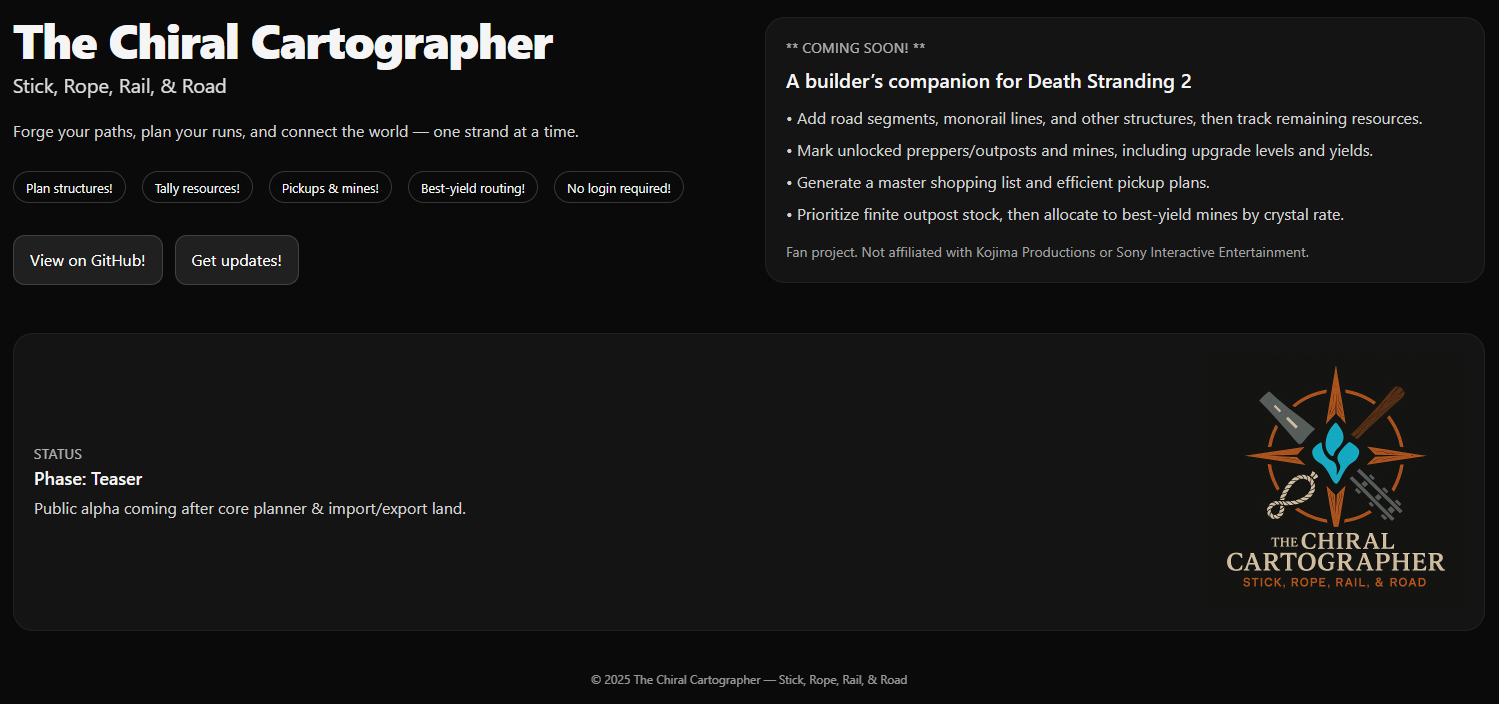
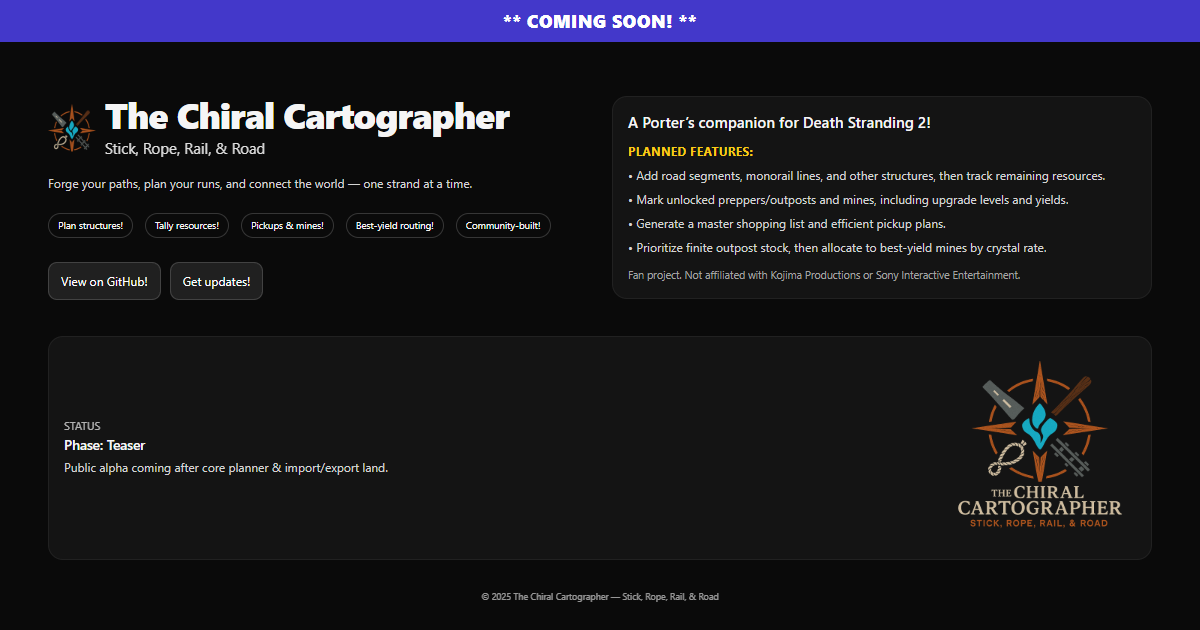
Updating feature blurb 'pills' and og-image to reflect current version of teaser site.

diff --git a/index.html b/index.html
@@ -57,8 +57,7 @@
           <span class="pill">Tally resources!</span>
           <span class="pill">Pickups &amp; mines!</span>
           <span class="pill">Best‑yield routing!</span>
-          <span class="pill">No login required!</span>
-	  <span class="pill">Community-built!</span>
+	        <span class="pill">Community-built!</span>
         </div>
 
         <div class="mt-8 flex items-center gap-3">
